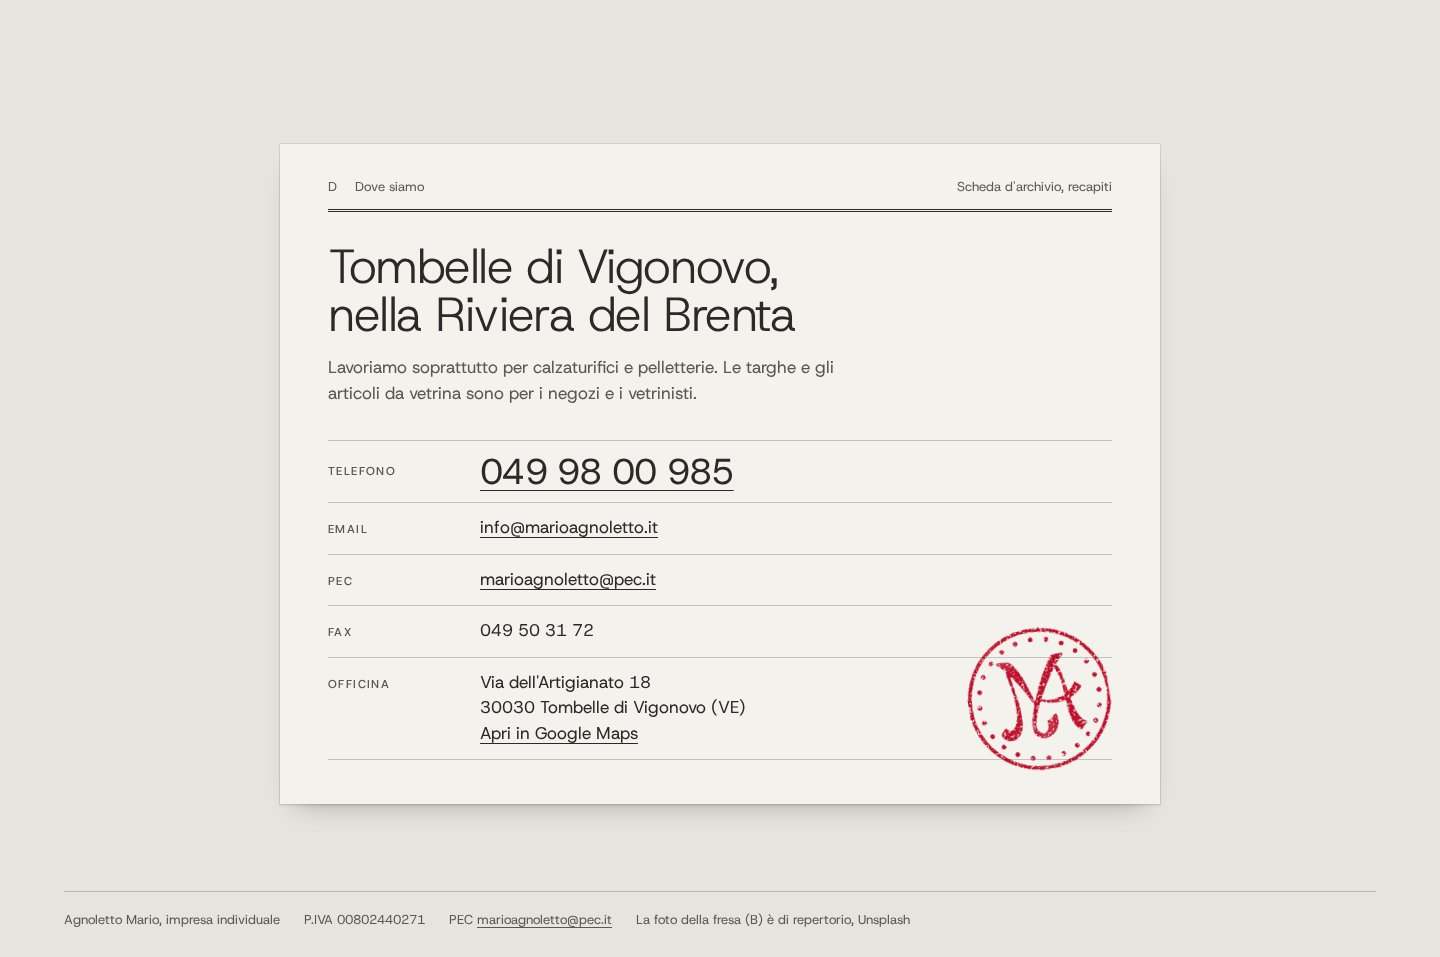
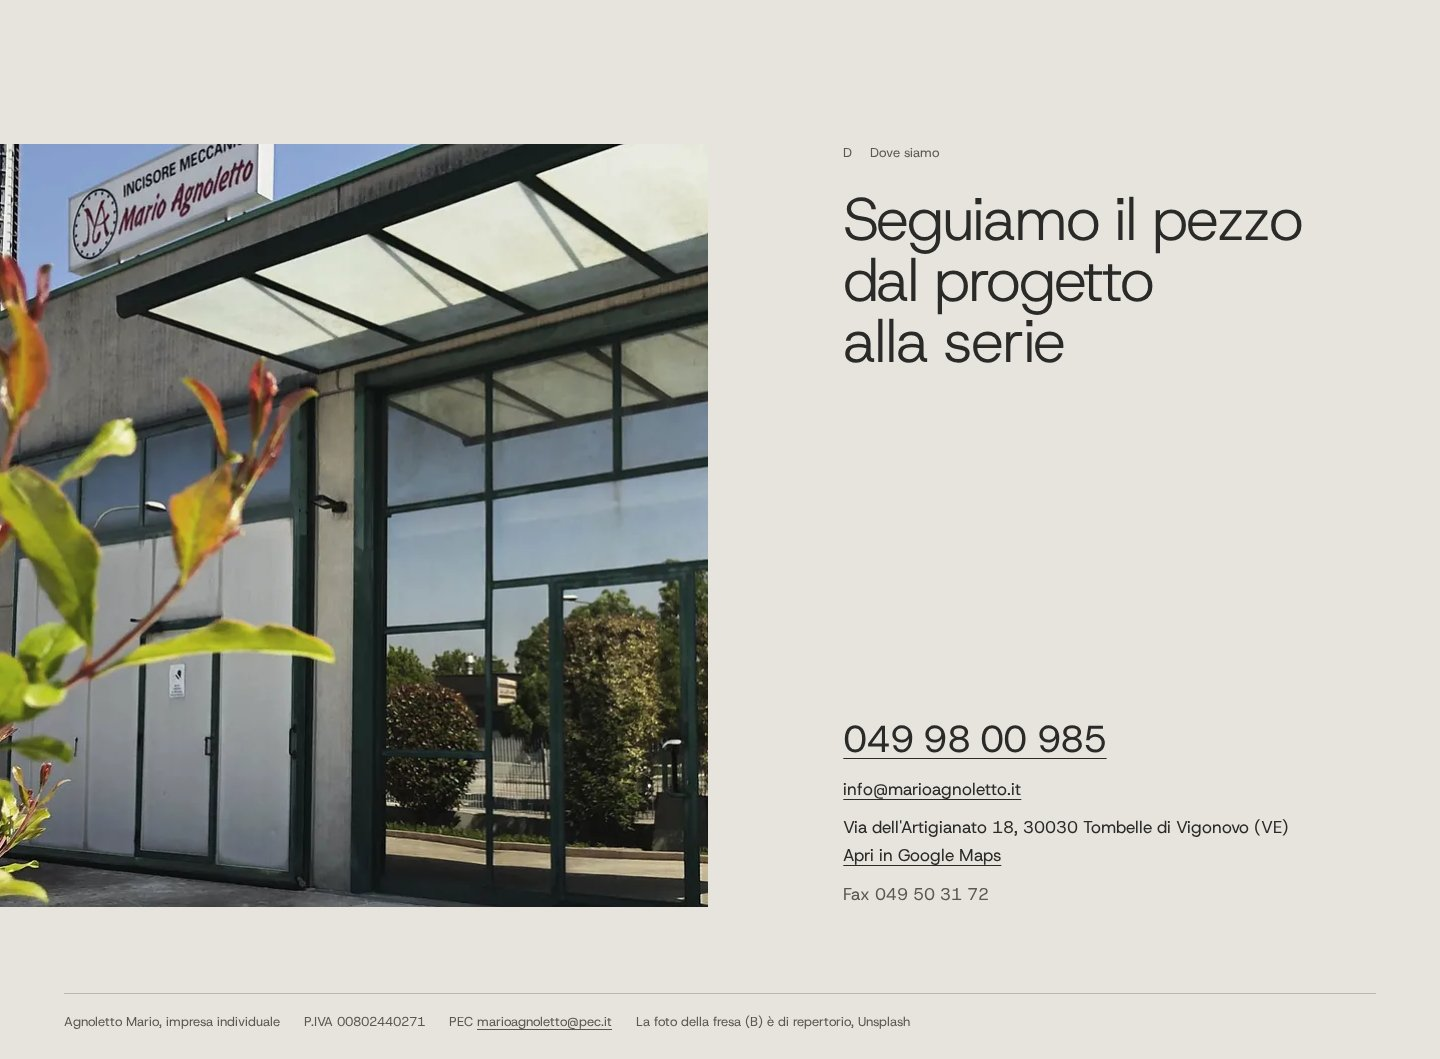
Mario Agnoletto: chiusura con foto della sede
Claude-Session: https://claude.ai/code/session_01Cmi9YMM7yW9iHymGYNTnDH

diff --git a/MarioAgnoletto-Sito/sito/index.html b/MarioAgnoletto-Sito/sito/index.html
@@ -149,8 +149,7 @@ p{margin:0;text-wrap:pretty}
 .contatti .foto img{width:100%;height:clamp(560px,53vw,960px);object-fit:cover;object-position:50% 30%}
 .contatti .testo{grid-column:8 / 13;grid-row:1;display:flex;flex-direction:column;justify-content:space-between;gap:48px}
 .contatti .tav{margin-bottom:26px}
-.contatti h2{font-size:clamp(34px,3.9vw,56px);line-height:1.02;letter-spacing:-.035em}
-.contatti h2 span{display:block;text-wrap:balance}
+.contatti h2{max-width:10.5em;font-size:clamp(36px,4.2vw,60px);line-height:1.02;letter-spacing:-.035em}
 .rec{font-size:17px;line-height:1.55}
 .rec p+p{margin-top:10px}
 .rec .numero{display:inline-flex;align-items:center;min-height:48px;font-size:clamp(28px,2.6vw,38px);letter-spacing:-.02em;line-height:1.1;text-underline-offset:.16em;white-space:nowrap}
@@ -391,7 +390,7 @@ p{margin:0;text-wrap:pretty}
     <div class="testo">
       <div>
         <p class="tav piccolo"><span>D</span><span>Dove siamo</span></p>
-        <h2 id="t-dove"><span>Si parte da un'idea del&nbsp;cliente.</span> <span>Seguiamo il pezzo dal&nbsp;progetto alla serie.</span></h2>
+        <h2 id="t-dove">Seguiamo il&nbsp;pezzo dal&nbsp;progetto alla&nbsp;serie</h2>
       </div>
       <div class="rec">
         <p><a class="numero num" href="tel:+390499800985">049&nbsp;98&nbsp;00&nbsp;985</a></p>

diff --git a/MarioAgnoletto-Sito/screenshot/home/NOTA.md b/MarioAgnoletto-Sito/screenshot/home/NOTA.md
@@ -55,34 +55,50 @@ Dal giudizio cieco (48/80), con la prima schermata tenuta com'è per scelta del 
 - Privacy, Cookie ed English, che erano link morti, sono stati tolti dal piede: vanno rimessi con le pagine vere (vedi LEGGIMI).
 - Contatti e piede sono stati poi rifatti del tutto: vedi "Chiusura nuova" qui sotto. Il 1979 resta, in piccolo, solo nell'apertura, ed è nel LEGGIMI tra i dati da confermare.
 
-## Chiusura nuova: la scheda d'archivio col timbro
+## Chiusura nuova: la sede e una frase loro (stile B, "con foto")
 
-Il committente ha notato che quasi tutte le home della campagna finivano allo stesso modo: titolo del luogo, telefono gigante su una fascia scura, una riga di colonnine con indirizzo, email e orari, e un piede scuro a quattro colonne. Anche questa finiva così: fascia grafite, "049 98 00 985" a 78 px, quattro blocchi di recapiti in due colonne, piede con logo e due paragrafi.
+La chiusura è stata rifatta due volte. Prima tutte le home finivano allo stesso modo (titolo del luogo, telefono gigante su fascia scura, colonnine, piede scuro a quattro colonne). Poi ogni home ha avuto un oggetto del mestiere disegnato che portava i recapiti: qui era la scheda d'archivio col timbro MA impresso. Il committente ha bocciato anche quella e, tra i due campioni fatti su Hambro e Bazzato, ha scelto lo stile B, "con foto". Questa è la chiusura in quello stile.
 
-**Cosa c'è ora.** Un solo oggetto del mondo della pagina: la **scheda d'archivio** della tavola dei campioni, posata sul cartone come i pezzi, con la stessa ombra corta. In fondo è chiusa dal **timbro MA impresso**: il timbro è il gesto.
-- In testa: "D, Dove siamo" e "Scheda d'archivio, recapiti", sopra un doppio filetto da scheda stampata. Sotto ci sono il titolo "Tombelle di Vigonovo, nella Riviera del Brenta" (48 px, come il cartellino C) e la riga sui clienti.
-- I recapiti sono i campi della scheda, una riga per voce, etichetta a sinistra e valore a destra, tra filetti sottili:
-  - Telefono, link `tel:` da 28 a 36 px secondo la larghezza, alto 48 px: si vede e si tocca;
-  - Email e PEC, link `mailto:`;
-  - Fax;
-  - Officina, con l'indirizzo e "Apri in Google Maps".
-- Il timbro è battuto in basso a destra, sulle righe Fax e Officina, in una colonna lasciata libera dai valori: non copre nessun testo, solo i filetti, come un timbro vero su una scheda.
-  - È il ricalco del monogramma del logo, `img/timbro-impresso.svg`, fatto da `finale_timbro_impresso.py`. Un filtro SVG gli dà la grana dell'inchiostro, la pressione un po' più forte da un lato e il bordo appena mosso. Il disegno non cambia.
-  - Sotto i 720 px il timbro scende sotto le righe, in fondo a destra. Sotto i 480 l'etichetta va sopra il valore.
-- **Piede**: una riga sola nel tono della pagina, su cartone, con un filetto sopra. Porta ragione sociale (Agnoletto Mario, impresa individuale), P.IVA 00802440271, PEC e la riga sulla foto della fresa di repertorio. Il logo nel piede è tolto: il marchio chiude già la scheda. La privacy non c'è perché la pagina non esiste ancora; va aggiunta con il testo vero (vedi LEGGIMI).
+**Cosa c'è ora** (sezione D, "Dove siamo", su cartone come il resto della pagina):
+- **A sinistra la foto**, a filo del bordo sinistro della pagina, larga sei colonne: l'ingresso dell'officina a Tombelle di Vigonovo, con l'insegna "Incisore meccanico Mario Agnoletto", la pensilina e le vetrate. A 1440 è 708x763 px.
+- **A destra**, in alto, la piccola indicazione "D, Dove siamo", come le sezioni A, B e C. Sotto la frase, grande, in Host Grotesk 300 come gli altri titoli (60 px a 1440, 36-40 px sul telefono):
+  - "Seguiamo il pezzo dal progetto alla serie".
+  - È presa dalla frase d'apertura ("Seguiamo il pezzo dal progetto alla serie, in zama, ottone, alluminio e acciaio") ed è quella che dice meglio come lavorano: seguono il pezzo del cliente fino alla produzione.
+  - Una prima versione in due frasi ("Si parte da un'idea del cliente. Seguiamo il pezzo...") è stata scartata, perché lo strumento dei segnali la segna come titolo in due frasi.
+- **A destra, in basso**, i recapiti in quattro righe di testo, senza etichette, riquadri o filetti:
+  - il telefono 049 98 00 985 (`tel:`), da 28 a 38 px, alto 48 px;
+  - l'email info@marioagnoletto.it (`mailto:`);
+  - l'indirizzo "Via dell'Artigianato 18, 30030 Tombelle di Vigonovo (VE)", con "Apri in Google Maps" sotto;
+  - "Fax 049 50 31 72", in grafite-2.
+  - Orari non ce ne sono: il sito dell'azienda non li dà.
+- **Sotto i 900 px** prima vengono la frase e i recapiti, poi la foto a tutta larghezza, quadrata (al massimo 640 px di altezza), che chiude la pagina sopra il piede. Così la sezione C (foto, cartellino, didascalia) non è seguita subito da un'altra foto.
+- **Piede**: una riga sola su cartone con un filetto sopra, come prima. Porta ragione sociale (Agnoletto Mario, impresa individuale), P.IVA 00802440271, PEC marioagnoletto@pec.it e la riga sulla foto della fresa di repertorio. La privacy non c'è perché la pagina non esiste ancora (vedi LEGGIMI).
 
-**Cosa è stato tolto.** La fascia grafite, l'unico fondo scuro della pagina. Poi il telefono a 78 px, la griglia di quattro blocchi (Officina, Scrivere, Telefono e fax, Ditta) e il piede a colonne con il logo. Nessun dato è nuovo e nessuno è sparito: telefono, fax, email, PEC, indirizzo, mappa, ragione sociale e P.IVA sono quelli di prima. Il 1979 resta nell'apertura.
+**La foto.** È `assets/originali/photos_large_company.jpg`, la foto della sede pubblicata sul sito attuale dell'azienda (1920x1080). Come le altre foto loro, va usata col loro permesso, che è da confermare. In `sito/img/` diventa:
+- `sede-720` e `sede-1020`: riquadro 360,0-1380,1080, verticale, per i larghi;
+- `sede-q-480`, `sede-q-780` e `sede-q-1080`: riquadro 300,0-1380,1080, quadrato, per telefono e tablet.
 
-**Perché.** La pagina è una tavola di campioni d'archivio. La chiusura naturale è il cartellino che accompagna la tavola, con i dati di chi l'ha fatta, e il timbro dell'officina, lo stesso segno battuto sul pezzo in apertura e mostrato a specchio nella sezione C. Così la pagina comincia e finisce con lo stesso gesto.
+Le fa `finale_img.py` con la stessa gradazione delle altre foto della pagina (saturazione all'80 %, curva a S leggera, neri a 14, luci a 246, tono appena caldo, maschera di contrasto).
+- Perché questa: è la foto più nitida che hanno (le foto prodotto sono da telefono, con qualche macchia), è vera, e per "Dove siamo" mostra proprio il posto. L'insegna col monogramma rosso riprende il rosso del timbro.
+- La foto sopra la chiusura è l'ottone inciso della sezione C, quindi le due foto sono diverse e non c'è stato niente da spostare.
+- Nessuna foto nuova scaricata. Nessuna foto della serie di Ruan Richard Rodrigues.
+
+**Cosa è stato tolto.** La scheda d'archivio con la sua ombra, il doppio filetto, le etichette maiuscole (Telefono, Email, PEC, Fax, Officina), i filetti tra le righe e il timbro impresso (`img/timbro-impresso.svg`). Il file non è più in `sito/img/` e il build non lo rifà più. `finale_timbro_impresso.py` resta tra gli script, ma il build non lo lancia. Tolti anche il colore carta #F4F2ED, il titolo "Tombelle di Vigonovo, nella Riviera del Brenta" e la riga sui clienti ("Lavoriamo soprattutto per calzaturifici e pelletterie...").
+- I dati sono tutti quelli di prima: telefono, email, fax, indirizzo e mappa nella chiusura; PEC, ragione sociale e P.IVA nel piede.
 
 **Controlli della chiusura.**
-- Guardata a pezzi a 1440, 1024, 768, 390 e 320 (`_prova/script/finale_chiusura.mjs`). Scheda larga 880 px fino a 1024, 700 a 768, 355 a 390, 288 a 320.
-- Nessuno scorrimento orizzontale. `finale_controlla.mjs` ora guarda anche la testa della scheda, la riga sui clienti, etichette, valori, timbro e piede: nessuna sovrapposizione da 320 a 2560.
-- Contrasto AA:
-  - grafite su carta 12,9:1;
-  - grafite-2 #5B5852 su carta 6,3:1 e su cartone 5,6:1 (etichette, riga sui clienti, piede);
-  - rosso su carta 5,3:1 (passaggio sui link).
-- Nessun U+2014, nessun gradiente, nessuna animazione, nessun corsivo, nessuna icona.
+- Guardata a pezzi a 1440, 1024, 768, 390 e 320 (`_prova/script/finale_chiusura.mjs`):
+  - a 1440 foto 708x763, testo a destra largo 533 px;
+  - a 1024 foto 503x560, testo largo 379 px;
+  - a 768, 390 e 320 la frase e i recapiti stanno sopra, poi la foto a tutta larghezza (768x640, 390x390, 320x320).
+  - La frase va a capo così: "Seguiamo il pezzo / dal progetto / alla serie" sui larghi, "Seguiamo il pezzo / dal progetto alla serie" sul telefono.
+- Nessuno scorrimento orizzontale da 320 a 2560. `finale_controlla.mjs` ora guarda anche l'indicazione D, ogni riga dei recapiti, la foto e il piede: nessuna sovrapposizione.
+- Contrasto AA su cartone:
+  - grafite #2A2A28 11,3:1 (frase, recapiti);
+  - grafite-2 #5B5852 5,6:1 (fax, indicazione D, piede);
+  - rosso #C8102E 4,6:1 (solo il passaggio sui link).
+- Nessun U+2014, nessun gradiente, nessuna animazione, nessun corsivo, nessuna icona, nessun riquadro.
+- Nitidezza: a 1440 con DPR 2 la foto ha 1020 px per 708 px di schermo (1,44x): è la risoluzione vera della foto.
 
 ## Le prime due schermate
 
@@ -92,15 +108,15 @@ Il committente ha notato che quasi tutte le home della campagna finivano allo st
    - A 390 il pezzo è ruotato di 90 gradi: entra dal bordo alto, tra il logo e "Menu", ed esce dal bordo sinistro. Sotto ci sono titolo, frase e bottone.
 2. **Campionario (A).** Titolo, filtro con i campioni di colore dei metalli e il conteggio, poi la tavola. In alto la gabbia in grande e quattro piccoli (punzoni, fustelle, ruote, bigiotteria), sotto due larghi (accessori, stampa su pelle). Ogni campione ha numero, nome, metalli e una riga presa dal sito.
 
-Seguono "Dal disegno alla serie" (dittico a tutta larghezza), "Punzoni anche in 24 ore" (foto a tutta larghezza con il cartellino), "Dove siamo" (la scheda d'archivio col timbro) e il piede in una riga.
+Seguono "Dal disegno alla serie" (dittico a tutta larghezza), "Punzoni anche in 24 ore" (foto a tutta larghezza con il cartellino), "Dove siamo" (la sede a sinistra, la frase e i recapiti a destra) e il piede in una riga.
 
 ## Caratteri e colori, con il riferimento
 
 - **Host Grotesk** (Element Type, SIL Open Font License 1.1, da Google Fonts). Una sola famiglia, woff2 variabile 300-800, sottoinsieme latino, servito dalla pagina in `fonts/`.
   - Riferimento: **De Castelli** (metallo lavorato), che usa Gramatika, un grottesco quieto. Host Grotesk ha le cifre tabellari: telefoni, numeri di catalogo e P.IVA si allineano.
   - Pesi: 300 per i titoli, 400 per il testo, 500 per i nomi dei campioni, i numeri dei richiami e i bottoni.
-- **Cartone #E7E4DD** come fondo, **#DCD8CF** per le caselle dei campioni, **carta #F4F2ED** per la scheda dei recapiti, **grafite #2A2A28** per testo, bottoni e filetti.
-- **Rosso #C8102E**, preso dal logo: solo il timbro MA (sul pezzo, nel dritto e rovescio, sulla scheda), il punto sui campioni accesi dal filtro e il passaggio sui link.
+- **Cartone #E7E4DD** come fondo, **#DCD8CF** per le caselle dei campioni, **grafite #2A2A28** per testo, bottoni e filetti.
+- **Rosso #C8102E**, preso dal logo: solo il timbro MA (sul pezzo e nel dritto e rovescio), il punto sui campioni accesi dal filtro e il passaggio sui link.
 
 ## Interazione, provata
 
@@ -125,7 +141,8 @@ Script `_prova/script/finale_filtro.mjs`, risultati in `_prova/finale/filtro.txt
 | `finiture-*` | foto 13, fibbia a catena e placca martellata, su pelle stampata | come sopra | B, Serie |
 | `ottone-*` | foto 2, ottone inciso e lastra traforata | come sopra | C, Punzoni |
 | `fresa-*` | Unsplash pl95tzT0f7Y, mastars MT | Unsplash License | B, Prototipo (segnaposto) |
-| `logo.svg`, `timbro.svg`, `timbro-grafite.svg` | ricalco in SVG del `logo.png` del sito (500x100) | marchio dell'azienda | testata, piede, timbro, dritto e rovescio |
+| `sede-*`, `sede-q-*` | foto della sede del sito (`photos_large_company.jpg`), ingresso dell'officina con l'insegna | dell'azienda, da usare col suo permesso | D, chiusura |
+| `logo.svg`, `timbro.svg`, `timbro-grafite.svg` | ricalco in SVG del `logo.png` del sito (500x100) | marchio dell'azienda | testata, timbro, dritto e rovescio |
 
 Nessuna foto della serie di Ruan Richard Rodrigues (riservata a Hambro): lo script delle immagini si ferma se ne trova una. Nessuna immagine generata dall'IA.
 
@@ -145,13 +162,13 @@ Nessuna foto della serie di Ruan Richard Rodrigues (riservata a Hambro): lo scri
 - **Nitidezza** (`finale_nitidezza.mjs`): a 768 con DPR 2 il browser sceglie il file più grande disponibile per ogni casella. I campioni piccoli hanno almeno 700 px per 686 px di schermo.
   - Restano sotto 2x solo le foto la cui risoluzione vera è più bassa: il tacco d'apertura (744 px), la gabbia (660), la stampa su pelle (960) e le finiture (670). Si risolve solo con le foto nuove (vedi LEGGIMI).
 - **Guardate a pezzi**: le pagine intere a 1440, 1024 e 390; le prime schermate a 320, 390, 768, 1024, 1440 e 1920; i filtri Zama, Acciaio e Ottone; il menu aperto a 1024.
-- **Collegamenti**: `tel:+390499800985` (testata, apertura, cartellino, scheda), `mailto:info@marioagnoletto.it`, `mailto:marioagnoletto@pec.it`, Google Maps su "Via dell'Artigianato 18 Tombelle di Vigonovo", ancore #lavorazioni, #serie, #punzoni, #contatti. Nessun link a "#" a parte il logo, che riporta in cima.
+- **Collegamenti**: `tel:+390499800985` (testata, apertura, cartellino, chiusura), `mailto:info@marioagnoletto.it`, `mailto:marioagnoletto@pec.it`, Google Maps su "Via dell'Artigianato 18 Tombelle di Vigonovo", ancore #lavorazioni, #serie, #punzoni, #contatti. Nessun link a "#" a parte il logo, che riporta in cima.
 - **Lineette lunghe (U+2014)**: zero in pagina, in questa nota, nel LEGGIMI, nei crediti e negli script.
 - **Errori in console e file mancanti**: nessuno.
 - **Segnali da IA** (`segnali.sh`, home a 1440, rapporto in `_prova/finale/segnali/`): 0 soglie bloccanti.
-  - Dopo la chiusura nuova: foto al 50,5 % della pagina, una sola famiglia, monospazio 0 %, 8 filetti larghi (le righe della scheda), 0 frecce, nessuna fascia di fondo oltre al cartone.
+  - Dopo la chiusura con la foto: foto al 55,8 % della pagina, una sola famiglia, monospazio 0 %, 0 titoli col punto, 2 filetti larghi, 0 frecce, nessuna fascia di fondo oltre al cartone.
   - Da guardare, e voluti:
-    - H2 di due misure (66 e 48 px): una misura grande più il cartellino.
+    - H2 di tre misure (66, 48 e 60 px): i titoli di sezione, il cartellino e la frase della chiusura.
     - Numerazione 01-07 (più lo 01 della legenda): è il numero di catalogo dei campioni, l'idea stessa.
     - 5 gradienti: i campioni di colore dei metalli nel filtro.
 

diff --git a/MarioAgnoletto-Sito/LEGGIMI.md b/MarioAgnoletto-Sito/LEGGIMI.md
@@ -21,10 +21,22 @@ La versione A, "Dritto e rovescio", è stata sostituita. Da A sono rimaste solo 
 
 ## Da fare: la versione WordPress va rigenerata (chiusura cambiata)
 
-La chiusura della home statica è stata rifatta dopo che la versione WordPress era stata generata. La fascia grafite "Dove siamo" con il telefono grande e i quattro blocchi di recapiti è diventata una **scheda d'archivio** su fondo cartone, chiusa dal timbro MA impresso. Il piede, che aveva il logo e due paragrafi, ora è **una riga sola**: ragione sociale, P.IVA, PEC e la riga sulla foto della fresa. I dati sono gli stessi. Dettagli e motivi sono nella NOTA (`screenshot/home/NOTA.md`, "Chiusura nuova").
-- `elementor-json/`, `html-fallback/` (`05-contatti.html` e `99-footer/01-footer.html`), `anteprima/`, `plugin/agnoletto-installer.zip`, `assets/web/` e `screenshot/elementor/` e `screenshot/fallback/` mostrano **ancora la chiusura vecchia**. Questo vale anche per le altezze e il collaudo descritti qui sotto.
-- Per rigenerarli va aggiornato il generatore in `_sorgente/` (`contenuti.py`, sezione contatti e piede) sulla nuova `sito/index.html`. Va aggiunto il file `sito/img/timbro-impresso.svg`, poi si lanciano i tre comandi di "Rigenerare i file" e si rifà il collaudo. In questo giro `_sorgente/` e i file WordPress non sono stati toccati.
-- Il 1979 ora compare in un punto solo, l'apertura ("dal 1979"). Il piede non lo riporta più, e nemmeno i recapiti, dove c'era l'etichetta "Ditta". La riga della fresa nel piede ora è "La foto della fresa (B) è di repertorio, Unsplash".
+La chiusura della home statica è stata rifatta dopo che la versione WordPress era stata generata, e poi rifatta di nuovo il 20 ottobre 2026. La fascia grafite "Dove siamo" con il telefono grande e i quattro blocchi di recapiti era diventata una scheda d'archivio col timbro MA impresso. Il committente l'ha bocciata e ha scelto lo stile B "con foto".
+- **Ora** a sinistra c'è la foto della sede, a filo del bordo della pagina: `sito/img/sede-*.webp` e `sede-q-*.webp`, dalla foto `photos_large_company.jpg` del loro sito.
+- A destra ci sono la frase "Seguiamo il pezzo dal progetto alla serie" e i recapiti in quattro righe: telefono, email, indirizzo con la mappa, fax.
+- Il piede è **una riga sola**: ragione sociale, P.IVA, PEC e la riga sulla foto della fresa.
+- I dati sono gli stessi. Dettagli e motivi sono nella NOTA (`screenshot/home/NOTA.md`, "Chiusura nuova").
+
+`elementor-json/`, `html-fallback/` (`05-contatti.html` e `99-footer/01-footer.html`), `anteprima/`, `plugin/agnoletto-installer.zip`, `assets/web/` e `screenshot/elementor/` e `screenshot/fallback/` mostrano **ancora la chiusura vecchia** (la fascia grafite). Questo vale anche per le altezze e il collaudo descritti qui sotto.
+
+Per rigenerarli:
+1. Aggiornare il generatore in `_sorgente/` (`contenuti.py`, sezione contatti e piede) sulla nuova `sito/index.html`.
+2. Aggiungere a `assets/web/` le foto della sede (`sede-1020.webp`, `sede-q-1080.webp`). Il timbro impresso della scheda non serve più.
+3. Lanciare i tre comandi di "Rigenerare i file" e rifare il collaudo.
+
+In questi giri `_sorgente/` e i file WordPress non sono stati toccati.
+
+Il 1979 ora compare in un punto solo, l'apertura ("dal 1979"). Il piede non lo riporta più, e nemmeno i recapiti, dove c'era l'etichetta "Ditta". La riga della fresa nel piede ora è "La foto della fresa (B) è di repertorio, Unsplash".
 
 ## Versione WordPress della home (come per Benvegnù)
 

diff --git a/MarioAgnoletto-Sito/assets/CREDITI.md b/MarioAgnoletto-Sito/assets/CREDITI.md
@@ -43,4 +43,5 @@ Aggiornato il 19 ottobre 2026, ultimo giro. Le foto della serie di Ruan Richard 
 | `finiture-*` | `originali/photos_large_13.jpg`, fibbia a catena e placca martellata (riquadro 1250,0-1920,820); il pezzo col motivo che ricorda un marchio è fuori quadro | come sopra | sezione B, Serie |
 | `ottone-*` | `originali/photos_large_2.jpg`, ottone inciso e lastra traforata, foto intera | come sopra | sezione C, Punzoni |
 | `fresa-*` | Unsplash pl95tzT0f7Y, mastars MT | Unsplash License | sezione B, Prototipo (segnaposto) |
-| `logo.svg`, `timbro.svg`, `timbro-grafite.svg` | ricalco in SVG di `originali/logo.png` (script `_prova/script/proto_b_logo.py`; la versione grafite è lo stesso tracciato con un altro colore) | logo di Mario Agnoletto, da approvare | testata, piede, timbro, dritto e rovescio |
+| `sede-*`, `sede-q-*` | `originali/photos_large_company.jpg`, l'ingresso dell'officina con l'insegna (riquadri 360,0-1380,1080 per i larghi e 300,0-1380,1080 quadrato per il telefono), stessa gradazione delle altre | foto di Mario Agnoletto dal suo sito, permesso da confermare | sezione D, chiusura (aggiunta il 20 ottobre 2026) |
+| `logo.svg`, `timbro.svg`, `timbro-grafite.svg` | ricalco in SVG di `originali/logo.png` (script `_prova/script/proto_b_logo.py`; la versione grafite è lo stesso tracciato con un altro colore) | logo di Mario Agnoletto, da approvare | testata, timbro, dritto e rovescio |
